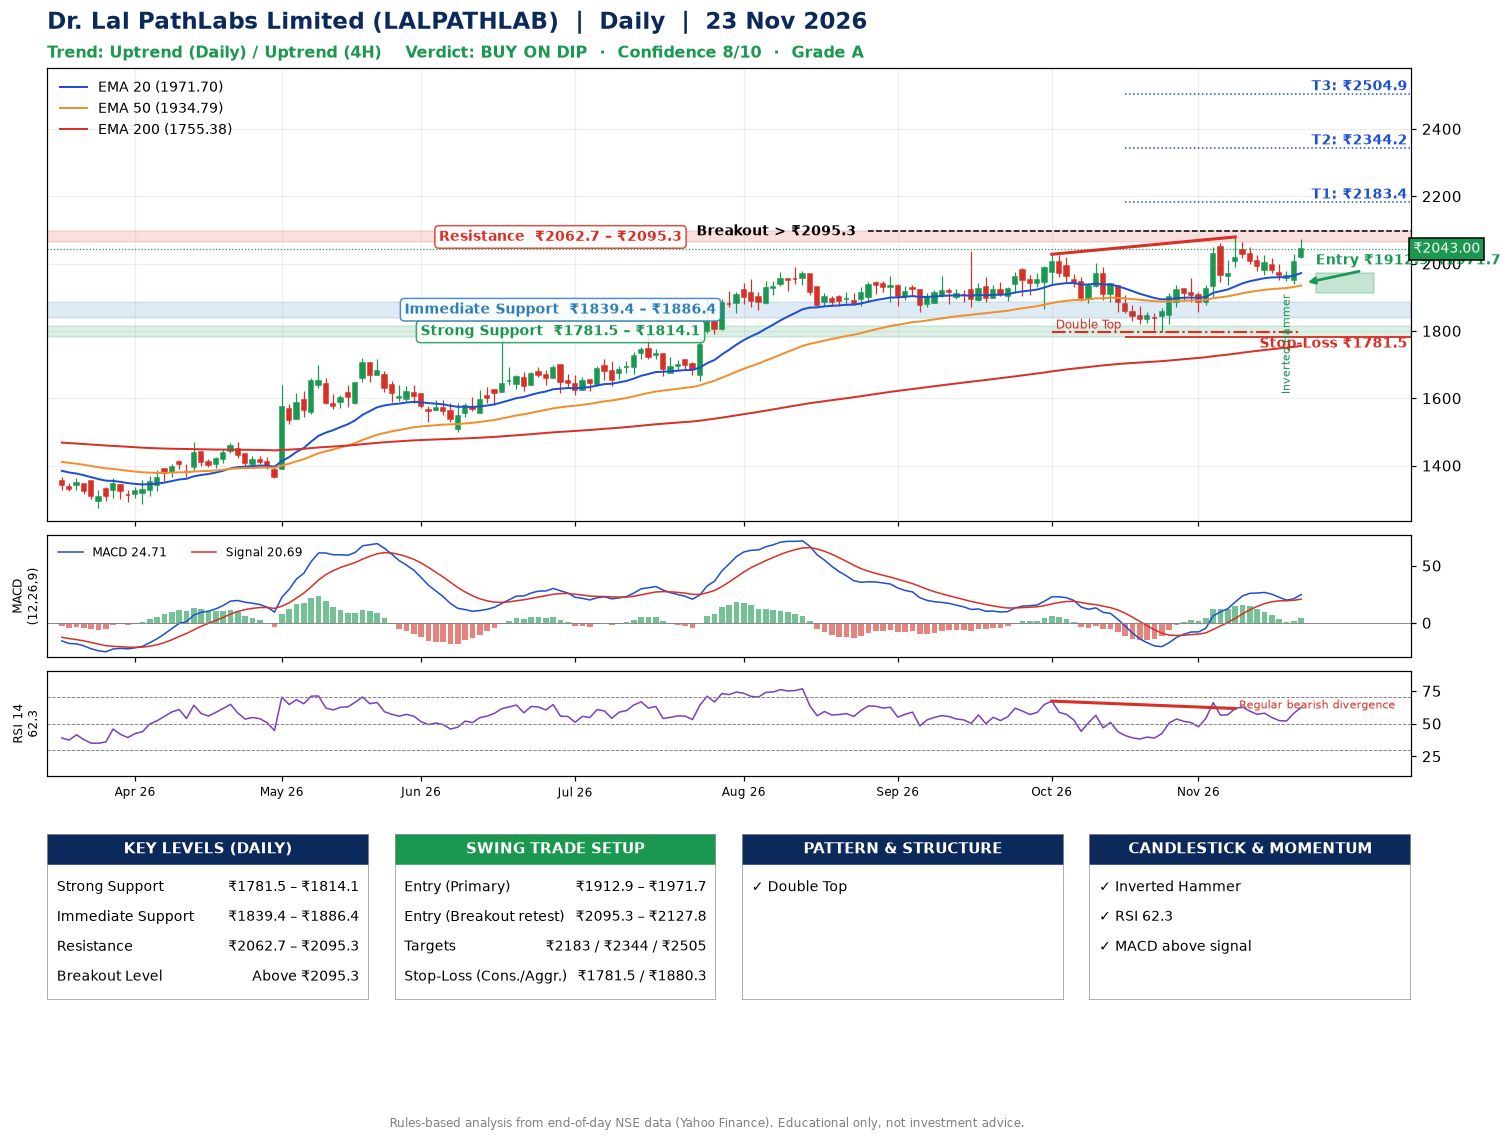
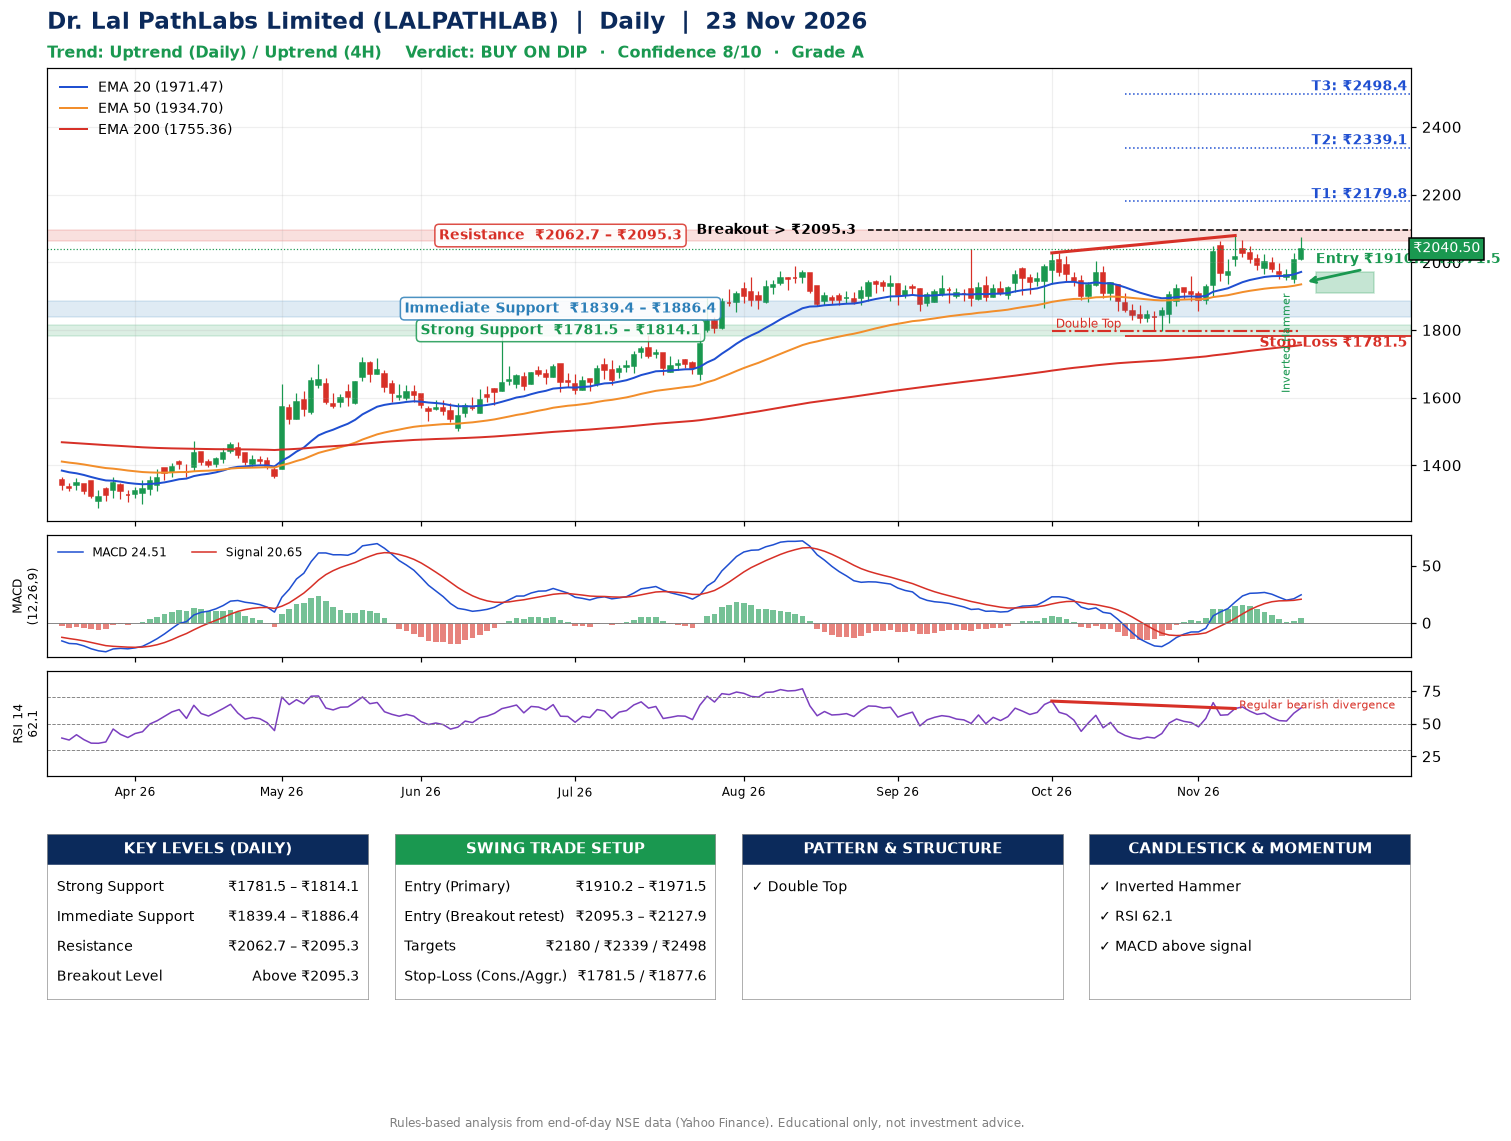
Daily scan 2026-11-24

diff --git a/LATEST_SCAN.md b/LATEST_SCAN.md
@@ -54,13 +54,37 @@ Time to T1: the median number of trading days this stock took, in the last 2 yea
 
 ## Top 5 buy setups today: Nifty 50
 
-Could not get the index list (https://www.niftyindices.com/IndexConstituent/: HTTP Error 403: Forbidden; https://archives.nseindia.com/content/indices/: HTTP Error 403: Forbidden). No picks today.
+| # | Stock | Close | Verdict | Entry | Stop-loss (risk) | Target 1 | ROE | Debt/Eq | Profit growth | Sales growth | P/E |
+|---|---|---|---|---|---|---|---|---|---|---|---|
+| 1 | ICICI Bank Limited (ICICIBANK) | ₹1585.5 | 🟡 BUY ON DIP | ₹1519.4–1530.4 | ₹1353.1 (11%) | ₹1782.5 | 16% | n/a | 22% | 16% | 19 |
+| 2 | Eicher Motors Limited (EICHERMOT) | ₹8172.5 | 🟢 BUY NOW | ₹8016.2–8172.5 | ₹7399.4 (9%) | ₹9136.8 | 25% | 0.02 | 15% | 20% | 38 |
+| 3 | Larsen & Toubro Limited (LT) | ₹4099.9 | 🟡 BUY ON DIP | ₹3932.2–4047.1 | ₹3574.0 (10%) | ₹4419.0 | 18% | 1.05 | 32% | 17% | 32 |
+| 4 | Axis Bank Limited (AXISBANK) | ₹1388.6 | 🟡 BUY ON DIP | ₹1320.5–1324.6 | ₹1188.4 (10%) | ₹1523.8 | 14% | n/a | 39% | 21% | 14 |
+| 5 | Kotak Mahindra Bank Limited (KOTAKBANK) | ₹502.9 | 🟡 BUY ON DIP | ₹480.2–480.2 | ₹424.9 (12%) | ₹563.2 | 12% | n/a | 26% | 21% | 23 |
+
+50 liquid stocks scanned; 15 had a buy setup with risk under 12%.
 
 ## Top 5 buy setups today: Midcap 150
 
-Could not get the index list (https://www.niftyindices.com/IndexConstituent/: HTTP Error 403: Forbidden; https://archives.nseindia.com/content/indices/: HTTP Error 403: Forbidden). No picks today.
+| # | Stock | Close | Verdict | Entry | Stop-loss (risk) | Target 1 | ROE | Debt/Eq | Profit growth | Sales growth | P/E |
+|---|---|---|---|---|---|---|---|---|---|---|---|
+| 1 | The Federal Bank Limited (FEDERALBNK) | ₹359.8 | 🟡 BUY ON DIP | ₹347.3–353.6 | ₹327.1 (7%) | ₹385.4 | 13% | n/a | 46% | 36% | 18 |
+| 2 | Aurobindo Pharma Limited (AUROPHARMA) | ₹1796.5 | 🟡 BUY ON DIP | ₹1714.7–1761.6 | ₹1537.5 (12%) | ₹2039.1 | 11% | 0.22 | 34% | 24% | 26 |
+| 3 | K.P.R. Mill Limited (KPRMILL) | ₹1206.9 | 🟡 BUY ON DIP | ₹1125.6–1159.5 | ₹1105.2 (3%) | ₹1203.5 | 18% | 0.05 | 58% | 19% | 40 |
+| 4 | Narayana Hrudayalaya Limited (NH) | ₹1974.2 | 🟢 BUY NOW | ₹1939.0–1965.0 | ₹1820.0 (7%) | ₹2150.0 | 19% | 1.21 | 16% | 73% | 46 |
+| 5 | Persistent Systems Limited (PERSISTENT) | ₹6282.5 | 🟡 BUY ON DIP | ₹5969.9–6154.1 | ₹5448.4 (10%) | ₹6982.4 | 23% | 0.07 | -26% | 30% | 55 |
+
+150 liquid stocks scanned; 22 had a buy setup with risk under 12%.
 
 ## Top 5 buy setups today: Smallcap 100
 
-Could not get the index list (https://www.niftyindices.com/IndexConstituent/: HTTP Error 403: Forbidden; https://archives.nseindia.com/content/indices/: HTTP Error 403: Forbidden). No picks today.
+| # | Stock | Close | Verdict | Entry | Stop-loss (risk) | Target 1 | ROE | Debt/Eq | Profit growth | Sales growth | P/E |
+|---|---|---|---|---|---|---|---|---|---|---|---|
+| 1 | City Union Bank Limited (CUB) | ₹245.5 | 🟡 BUY ON DIP | ₹226.8–230.2 | ₹204.1 (11%) | ₹258.7 | 14% | n/a | 27% | 27% | 15 |
+| 2 | The Karur Vysya Bank Limited (KARURVYSYA) | ₹384.1 | 🟡 BUY ON DIP | ₹356.9–370.7 | ₹332.7 (9%) | ₹410.4 | 21% | n/a | 37% | 21% | 13 |
+| 3 | The Great Eastern Shipping Company Limited (GESHIP) | ₹1538.3 | 🟡 BUY ON DIP | ₹1447.1–1519.7 | ₹1396.0 (6%) | ₹1634.1 | 26% | 0.04 | 119% | 47% | 5 |
+| 4 | Sagility Limited (SAGILITY) | ₹46.1 | 🟡 BUY ON DIP | ₹43.3–44.4 | ₹42.6 (3%) | ₹45.9 | 11% | 0.09 | 15% | 22% | 21 |
+| 5 | Dr. Lal PathLabs Limited (LALPATHLAB) | ₹2040.5 | 🟡 BUY ON DIP | ₹1910.2–1971.5 | ₹1781.5 (8%) | ₹2179.8 | 23% | 0.08 | 27% | 20% | 59 |
+
+97 liquid stocks scanned; 16 had a buy setup with risk under 12%.
 

diff --git a/daily/2026-11-24.md b/daily/2026-11-24.md
@@ -54,13 +54,37 @@ Time to T1: the median number of trading days this stock took, in the last 2 yea
 
 ## Top 5 buy setups today: Nifty 50
 
-Could not get the index list (https://www.niftyindices.com/IndexConstituent/: HTTP Error 403: Forbidden; https://archives.nseindia.com/content/indices/: HTTP Error 403: Forbidden). No picks today.
+| # | Stock | Close | Verdict | Entry | Stop-loss (risk) | Target 1 | ROE | Debt/Eq | Profit growth | Sales growth | P/E |
+|---|---|---|---|---|---|---|---|---|---|---|---|
+| 1 | ICICI Bank Limited (ICICIBANK) | ₹1585.5 | 🟡 BUY ON DIP | ₹1519.4–1530.4 | ₹1353.1 (11%) | ₹1782.5 | 16% | n/a | 22% | 16% | 19 |
+| 2 | Eicher Motors Limited (EICHERMOT) | ₹8172.5 | 🟢 BUY NOW | ₹8016.2–8172.5 | ₹7399.4 (9%) | ₹9136.8 | 25% | 0.02 | 15% | 20% | 38 |
+| 3 | Larsen & Toubro Limited (LT) | ₹4099.9 | 🟡 BUY ON DIP | ₹3932.2–4047.1 | ₹3574.0 (10%) | ₹4419.0 | 18% | 1.05 | 32% | 17% | 32 |
+| 4 | Axis Bank Limited (AXISBANK) | ₹1388.6 | 🟡 BUY ON DIP | ₹1320.5–1324.6 | ₹1188.4 (10%) | ₹1523.8 | 14% | n/a | 39% | 21% | 14 |
+| 5 | Kotak Mahindra Bank Limited (KOTAKBANK) | ₹502.9 | 🟡 BUY ON DIP | ₹480.2–480.2 | ₹424.9 (12%) | ₹563.2 | 12% | n/a | 26% | 21% | 23 |
+
+50 liquid stocks scanned; 15 had a buy setup with risk under 12%.
 
 ## Top 5 buy setups today: Midcap 150
 
-Could not get the index list (https://www.niftyindices.com/IndexConstituent/: HTTP Error 403: Forbidden; https://archives.nseindia.com/content/indices/: HTTP Error 403: Forbidden). No picks today.
+| # | Stock | Close | Verdict | Entry | Stop-loss (risk) | Target 1 | ROE | Debt/Eq | Profit growth | Sales growth | P/E |
+|---|---|---|---|---|---|---|---|---|---|---|---|
+| 1 | The Federal Bank Limited (FEDERALBNK) | ₹359.8 | 🟡 BUY ON DIP | ₹347.3–353.6 | ₹327.1 (7%) | ₹385.4 | 13% | n/a | 46% | 36% | 18 |
+| 2 | Aurobindo Pharma Limited (AUROPHARMA) | ₹1796.5 | 🟡 BUY ON DIP | ₹1714.7–1761.6 | ₹1537.5 (12%) | ₹2039.1 | 11% | 0.22 | 34% | 24% | 26 |
+| 3 | K.P.R. Mill Limited (KPRMILL) | ₹1206.9 | 🟡 BUY ON DIP | ₹1125.6–1159.5 | ₹1105.2 (3%) | ₹1203.5 | 18% | 0.05 | 58% | 19% | 40 |
+| 4 | Narayana Hrudayalaya Limited (NH) | ₹1974.2 | 🟢 BUY NOW | ₹1939.0–1965.0 | ₹1820.0 (7%) | ₹2150.0 | 19% | 1.21 | 16% | 73% | 46 |
+| 5 | Persistent Systems Limited (PERSISTENT) | ₹6282.5 | 🟡 BUY ON DIP | ₹5969.9–6154.1 | ₹5448.4 (10%) | ₹6982.4 | 23% | 0.07 | -26% | 30% | 55 |
+
+150 liquid stocks scanned; 22 had a buy setup with risk under 12%.
 
 ## Top 5 buy setups today: Smallcap 100
 
-Could not get the index list (https://www.niftyindices.com/IndexConstituent/: HTTP Error 403: Forbidden; https://archives.nseindia.com/content/indices/: HTTP Error 403: Forbidden). No picks today.
+| # | Stock | Close | Verdict | Entry | Stop-loss (risk) | Target 1 | ROE | Debt/Eq | Profit growth | Sales growth | P/E |
+|---|---|---|---|---|---|---|---|---|---|---|---|
+| 1 | City Union Bank Limited (CUB) | ₹245.5 | 🟡 BUY ON DIP | ₹226.8–230.2 | ₹204.1 (11%) | ₹258.7 | 14% | n/a | 27% | 27% | 15 |
+| 2 | The Karur Vysya Bank Limited (KARURVYSYA) | ₹384.1 | 🟡 BUY ON DIP | ₹356.9–370.7 | ₹332.7 (9%) | ₹410.4 | 21% | n/a | 37% | 21% | 13 |
+| 3 | The Great Eastern Shipping Company Limited (GESHIP) | ₹1538.3 | 🟡 BUY ON DIP | ₹1447.1–1519.7 | ₹1396.0 (6%) | ₹1634.1 | 26% | 0.04 | 119% | 47% | 5 |
+| 4 | Sagility Limited (SAGILITY) | ₹46.1 | 🟡 BUY ON DIP | ₹43.3–44.4 | ₹42.6 (3%) | ₹45.9 | 11% | 0.09 | 15% | 22% | 21 |
+| 5 | Dr. Lal PathLabs Limited (LALPATHLAB) | ₹2040.5 | 🟡 BUY ON DIP | ₹1910.2–1971.5 | ₹1781.5 (8%) | ₹2179.8 | 23% | 0.08 | 27% | 20% | 59 |
+
+97 liquid stocks scanned; 16 had a buy setup with risk under 12%.
 

diff --git a/LALPATHLAB/2026-11-23.md b/LALPATHLAB/2026-11-23.md
@@ -1,12 +1,12 @@
 📌 **Dr. Lal PathLabs Limited (LALPATHLAB) – Multi-Timeframe Technical Analysis (Daily + 4H Combined)**
-_Data up to 23 Nov 2026 · Close ₹2043.00_
+_Data up to 23 Nov 2026 · Close ₹2040.50_
 
 **📍 Daily Timeframe Trend**
 - Trend: **Uptrend** (price above rising EMAs)
 - Recent swing highs: ₹2038.6, ₹2027.6, ₹2079.0 · swing lows: ₹1870.0, ₹1865.0, ₹1797.8
-- EMAs: EMA20 ₹1971.7, EMA50 ₹1934.8, EMA200 ₹1755.4; bullish stack (EMA20 > EMA50 > EMA200); price above EMA20, EMA50, EMA200
-- MACD 24.71 above signal 20.69 (above zero); histogram rising
-- RSI(14) 62.3; Regular bearish divergence
+- EMAs: EMA20 ₹1971.5, EMA50 ₹1934.7, EMA200 ₹1755.4; bullish stack (EMA20 > EMA50 > EMA200); price above EMA20, EMA50, EMA200
+- MACD 24.51 above signal 20.65 (above zero); histogram rising
+- RSI(14) 62.1; Regular bearish divergence
 
 **📍 4-Hour Timeframe Trend**
 - Structure: **Uptrend** (price above rising EMAs)
@@ -34,26 +34,26 @@ _Data up to 23 Nov 2026 · Close ₹2043.00_
 **📍 Swing Trade Setup**
 
 🟢 **Entry Zone**
-- Primary: ₹1912.9 – ₹1971.7 (daily support / EMA20 area; enter on a bullish 4H candle)
-- Alternate: ₹2095.3 – ₹2127.8 (breakout retest)
+- Primary: ₹1910.2 – ₹1971.5 (daily support / EMA20 area; enter on a bullish 4H candle)
+- Alternate: ₹2095.3 – ₹2127.9 (breakout retest)
 
 🎯 **Profit Targets**
-- T1: ₹2183.4
-- T2: ₹2344.2
-- T3: ₹2504.9
+- T1: ₹2179.8
+- T2: ₹2339.1
+- T3: ₹2498.4
 
 🛑 **Stop-Loss**
 - Conservative: below daily swing low (₹1781.5)
-- Aggressive: below 4H structure (₹1880.3)
-- Risk per share ≈ ₹160.8; reward:risk to T1 ≈ 1.5
-- Time to T1: about 25 trading days (it rose this much within 60 trading days 50% of the time in the last 2 years)
+- Aggressive: below 4H structure (₹1877.6)
+- Risk per share ≈ ₹159.3; reward:risk to T1 ≈ 1.5
+- Time to T1: about 25 trading days (it rose this much within 60 trading days 51% of the time in the last 2 years)
 - Time to T2: about 37 trading days (it rose this much within 60 trading days 30% of the time in the last 2 years)
 
 **📌 Strategy Notes**
 - Higher timeframe: daily trend is uptrend; only take longs while price holds above ₹1781.5.
-- Entry timing: wait for a bullish 4H candle (engulfing/hammer) inside ₹1912.9 – ₹1971.7 rather than buying mid-range.
+- Entry timing: wait for a bullish 4H candle (engulfing/hammer) inside ₹1910.2 – ₹1971.5 rather than buying mid-range.
 - EMA stacking: bullish stack (EMA20 > EMA50 > EMA200); price above EMA20, EMA50, EMA200.
-- Breakout rule: a daily close above ₹2095.3 with volume above its 20-day average (≈306,570) opens T2/T3.
+- Breakout rule: a daily close above ₹2095.3 with volume above its 20-day average (≈319,826) opens T2/T3.
 - Momentum: RSI 62 – room to run; Regular bearish divergence.
 - Exit discipline: move the stop to entry once T1 is hit; book partial profits at each target.
 
@@ -77,6 +77,6 @@ Reason:
 • EMAs stacked bullishly
 
 Next Action:
-• Wait for a pullback to ₹1912.9–₹1971.7
+• Wait for a pullback to ₹1910.2–₹1971.5
 
 _Rules-based analysis from end-of-day data. Educational only, not investment advice. Never place orders without your own confirmation._

diff --git a/PERSISTENT/2026-11-23.md b/PERSISTENT/2026-11-23.md
@@ -56,7 +56,7 @@ _Data up to 23 Nov 2026 · Close ₹6282.50_
 - Higher timeframe: daily trend is uptrend; only take longs while price holds above ₹5326.9.
 - Entry timing: wait for a bullish 4H candle (engulfing/hammer) inside ₹5969.9 – ₹6154.1 rather than buying mid-range.
 - EMA stacking: bullish stack (EMA20 > EMA50 > EMA200); price above EMA20, EMA50, EMA200.
-- Breakout rule: a daily close above ₹6642.6 with volume above its 20-day average (≈608,894) opens T2/T3.
+- Breakout rule: a daily close above ₹6642.6 with volume above its 20-day average (≈608,898) opens T2/T3.
 - Momentum: RSI 68 – elevated, prefer dips; Regular bearish divergence.
 - Exit discipline: move the stop to entry once T1 is hit; book partial profits at each target.
 

diff --git a/GESHIP/2026-11-23.md b/GESHIP/2026-11-23.md
@@ -53,7 +53,7 @@ _Data up to 23 Nov 2026 · Close ₹1538.30_
 - Higher timeframe: daily trend is uptrend; only take longs while price holds above ₹1296.9.
 - Entry timing: wait for a bullish 4H candle (engulfing/hammer) inside ₹1447.1 – ₹1519.7 rather than buying mid-range.
 - EMA stacking: bullish stack (EMA20 > EMA50 > EMA200); price above EMA20, EMA50, EMA200.
-- Breakout rule: a daily close above ₹1611.8 with volume above its 20-day average (≈808,174) opens T2/T3.
+- Breakout rule: a daily close above ₹1611.8 with volume above its 20-day average (≈808,182) opens T2/T3.
 - Momentum: RSI 53 – room to run; Regular bearish divergence.
 - Exit discipline: move the stop to entry once T1 is hit; book partial profits at each target.
 

diff --git a/SAGILITY/2026-11-23.md b/SAGILITY/2026-11-23.md
@@ -54,7 +54,7 @@ _Data up to 23 Nov 2026 · Close ₹46.09_
 - Higher timeframe: daily trend is uptrend; only take longs while price holds above ₹39.7.
 - Entry timing: wait for a bullish 4H candle (engulfing/hammer) inside ₹43.3 – ₹44.4 rather than buying mid-range.
 - EMA stacking: bullish stack (EMA20 > EMA50 > EMA200); price above EMA20, EMA50, EMA200.
-- Breakout rule: a daily close above ₹47.8 with volume above its 20-day average (≈66,764,251) opens T2/T3.
+- Breakout rule: a daily close above ₹47.8 with volume above its 20-day average (≈67,036,655) opens T2/T3.
 - Momentum: RSI 60 – room to run; Regular bearish divergence.
 - Exit discipline: move the stop to entry once T1 is hit; book partial profits at each target.
 
